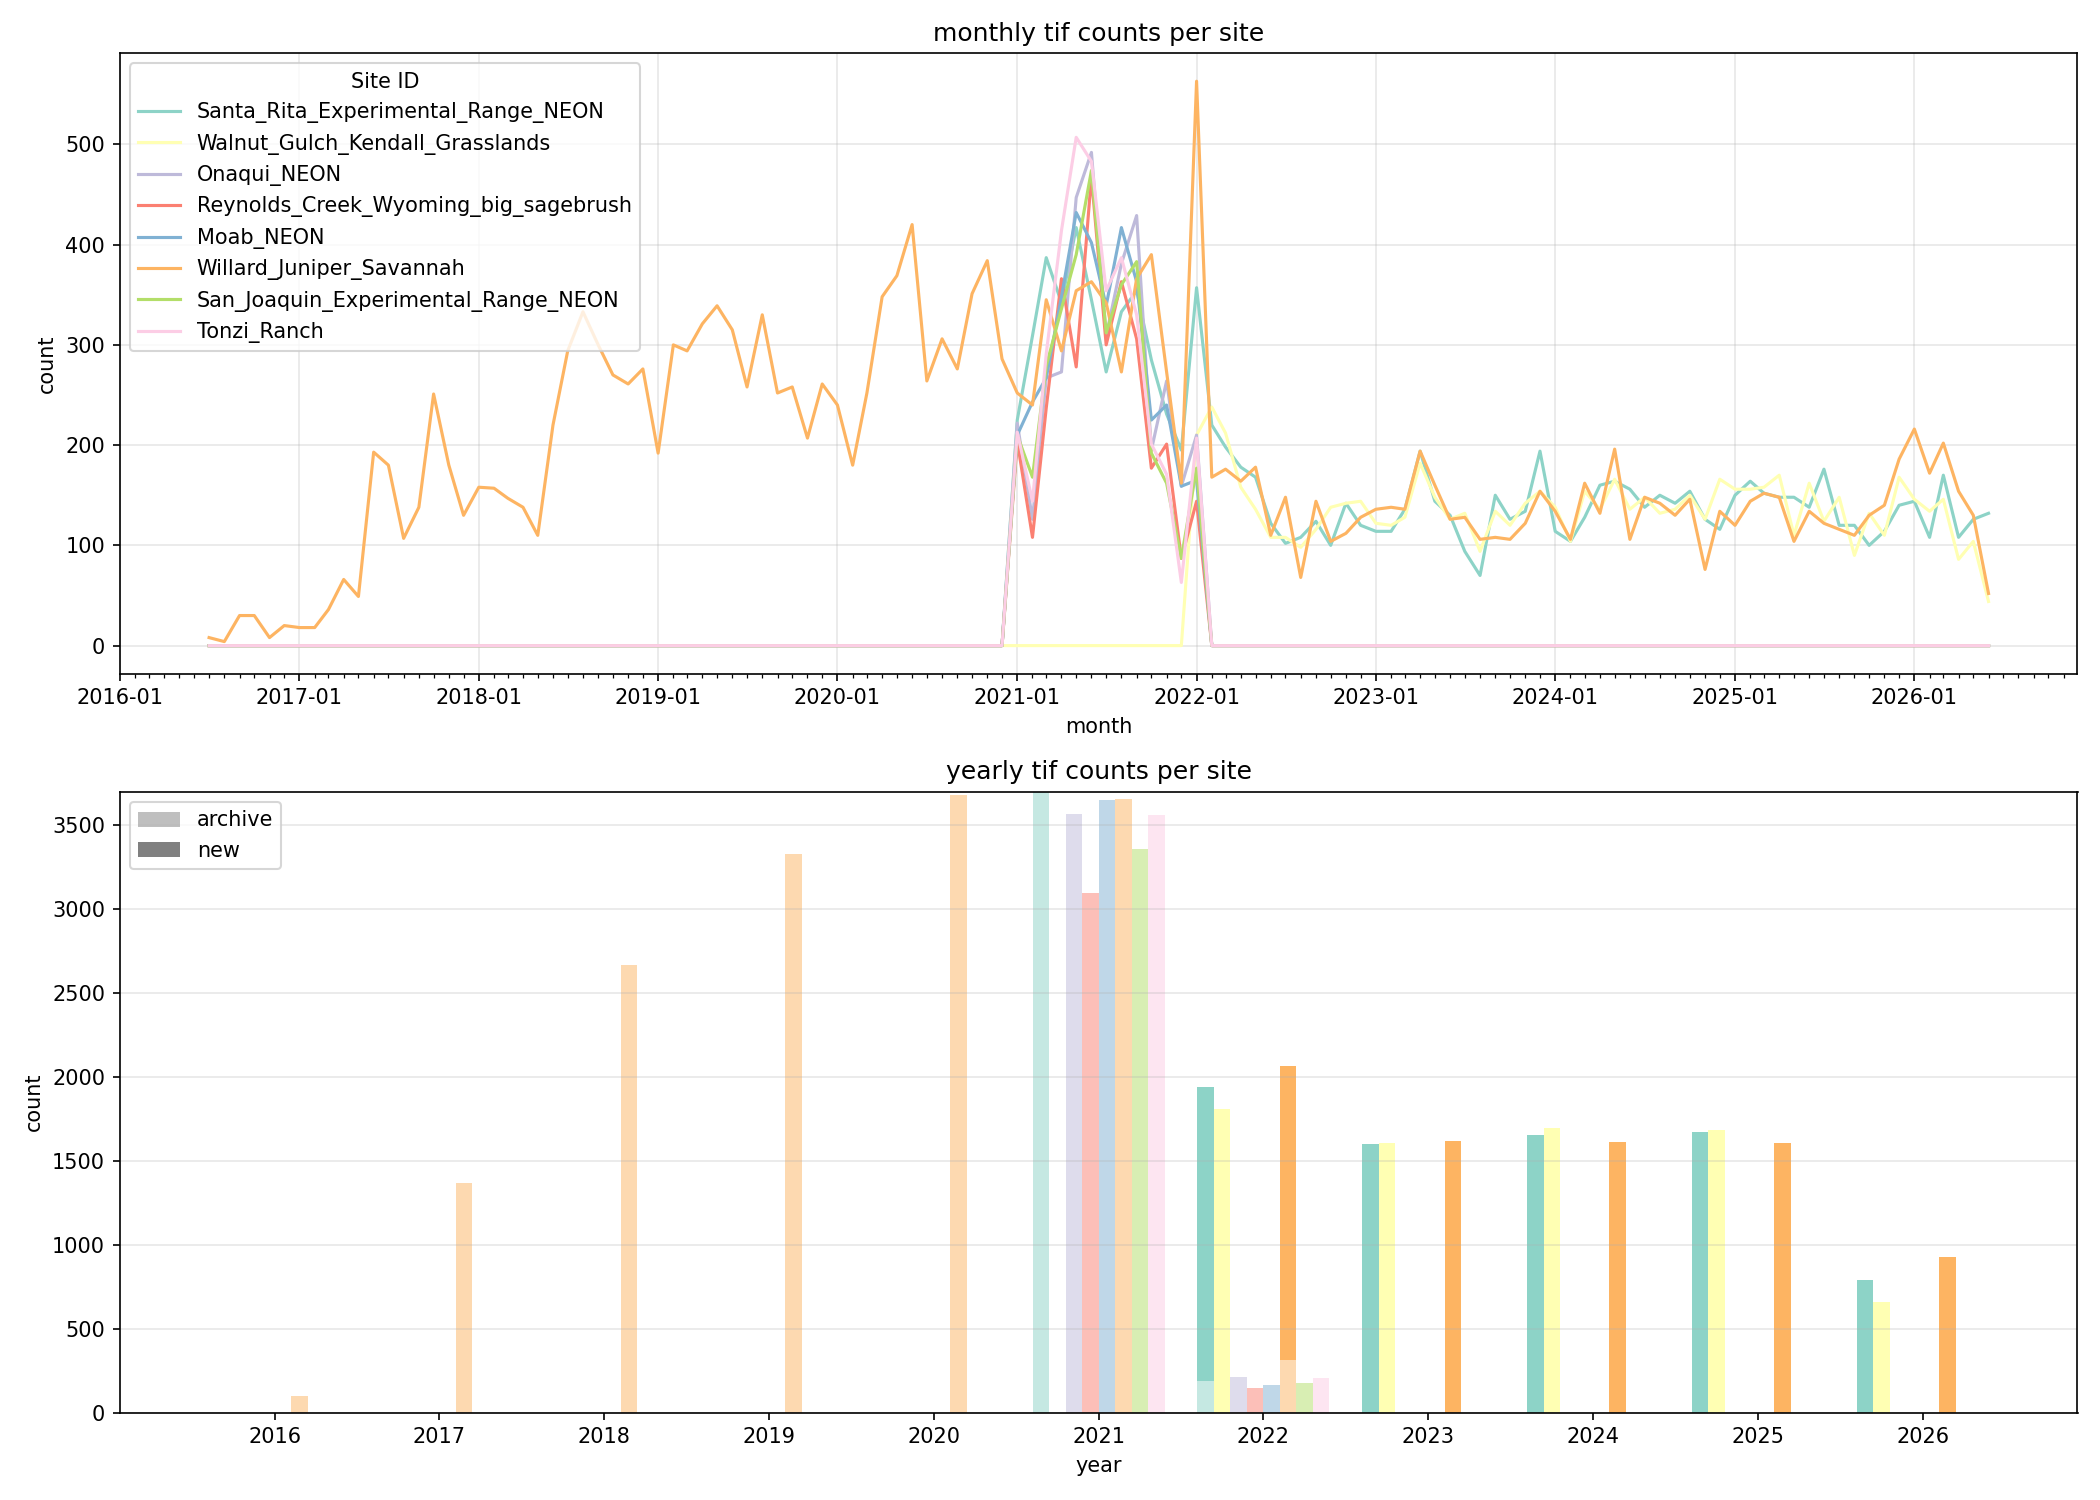
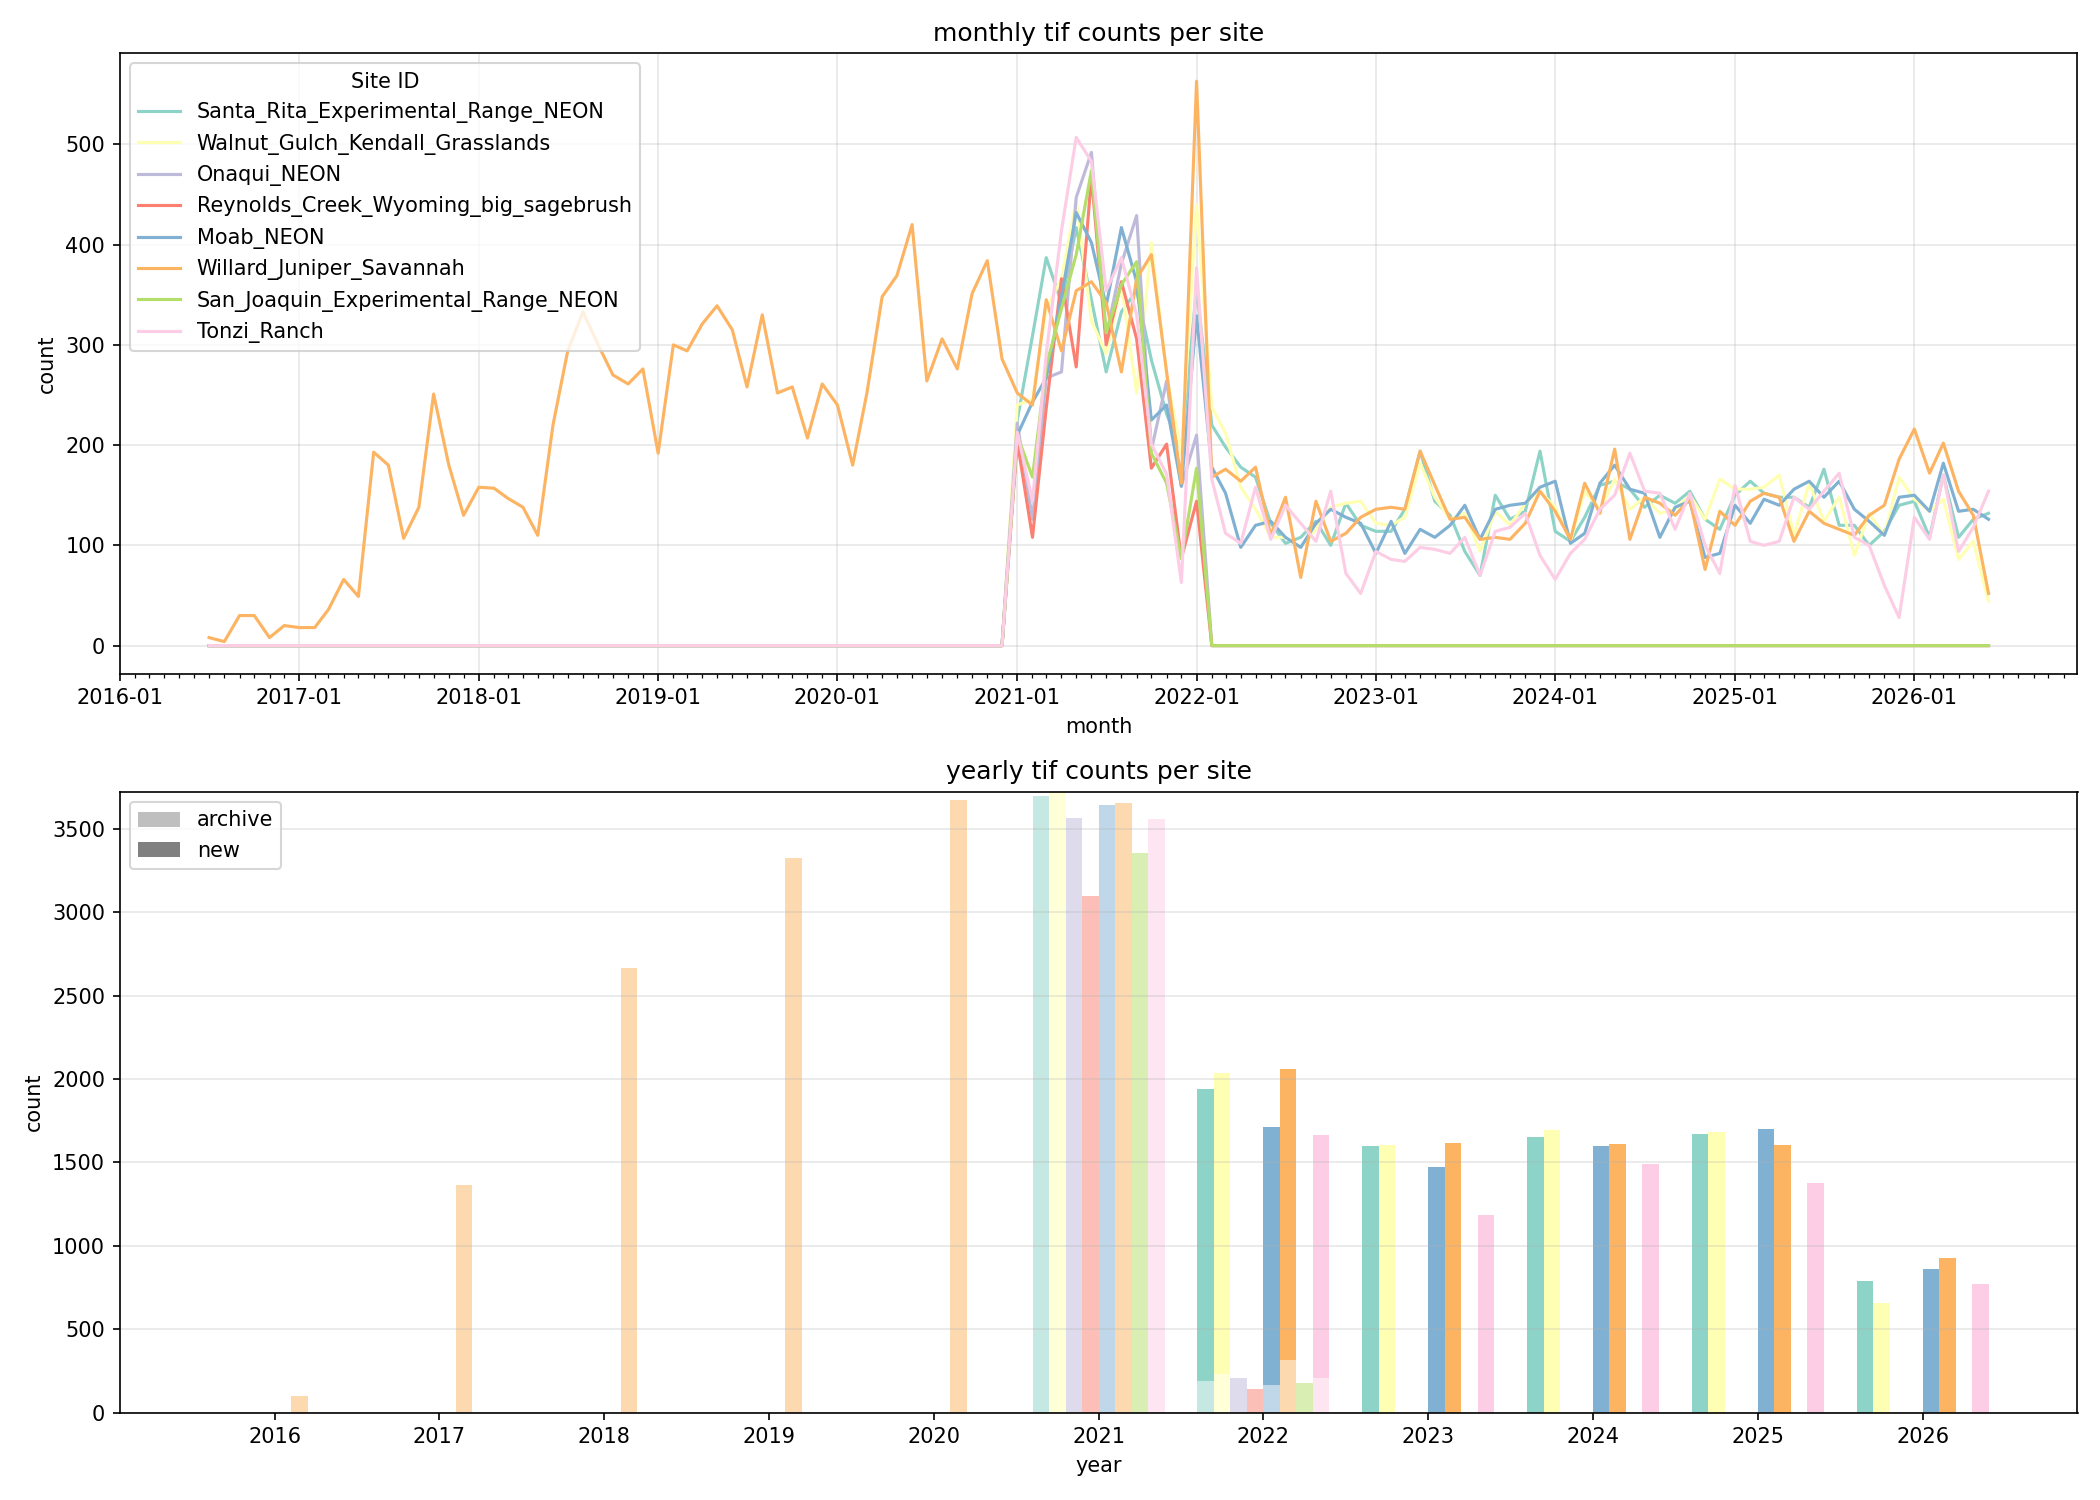
updated tif counts

diff --git a/code/qsub/diagnostics/tif_count_stats/2_run_get_site_tif_count_visualization.py b/code/qsub/diagnostics/tif_count_stats/2_run_get_site_tif_count_visualization.py
@@ -530,7 +530,7 @@ def main() -> None:
 
         cleanup_per_site_files(discovered, INPUT_DIR)
     else:
-        print('---------- NOTE monthly and yearly files were already created, delete if a new run needs to happen ----------')
+        print('\n---------- NOTE monthly and yearly files were already created, delete if a new run needs to happen ----------\n')
     
     # create visualization
     df_monthly = pd.read_csv(monthly_path)
